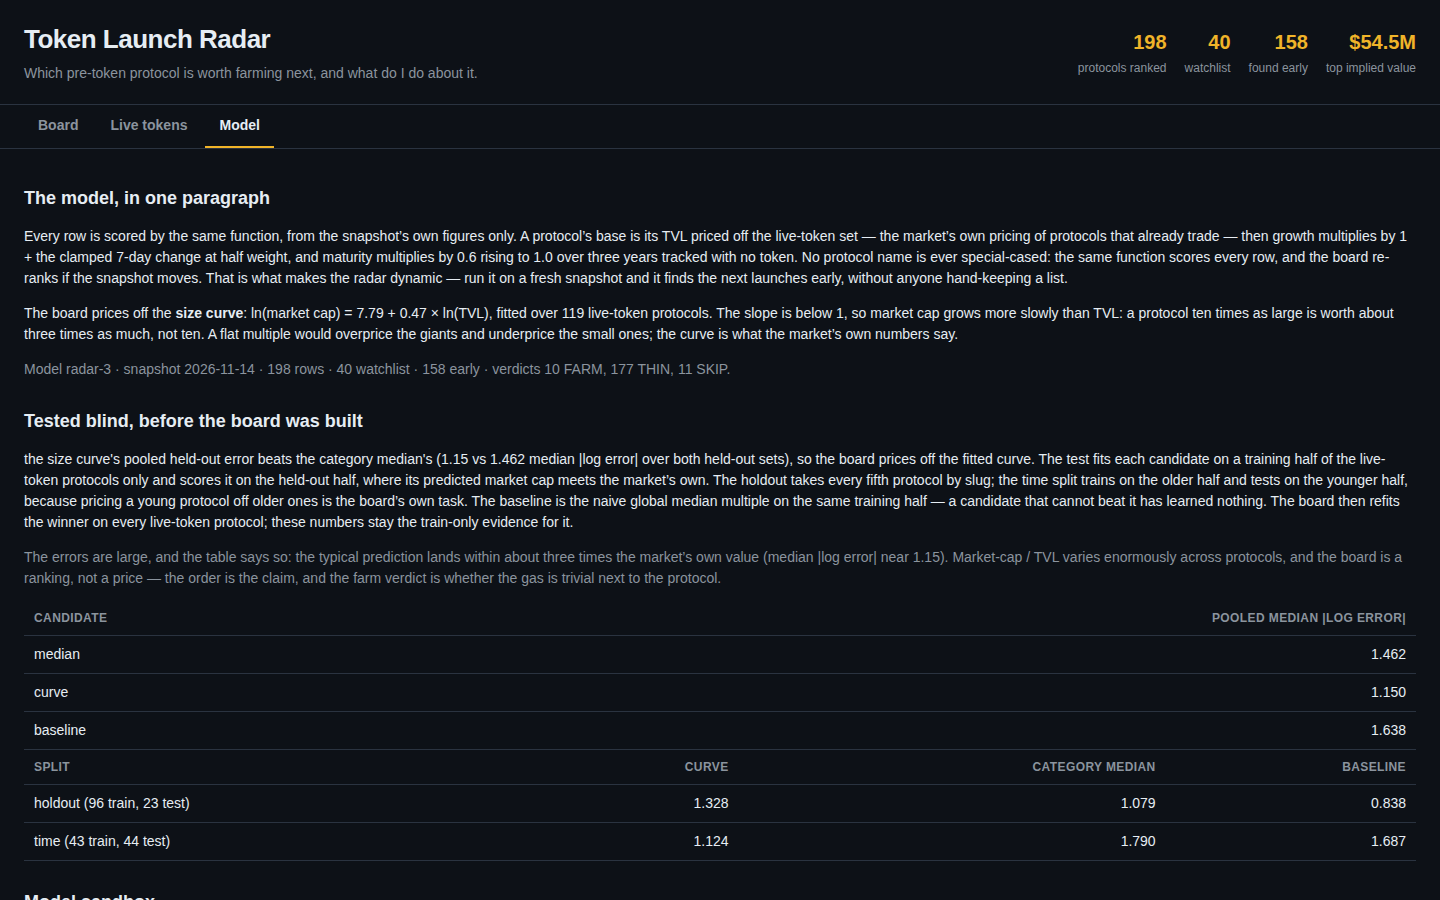
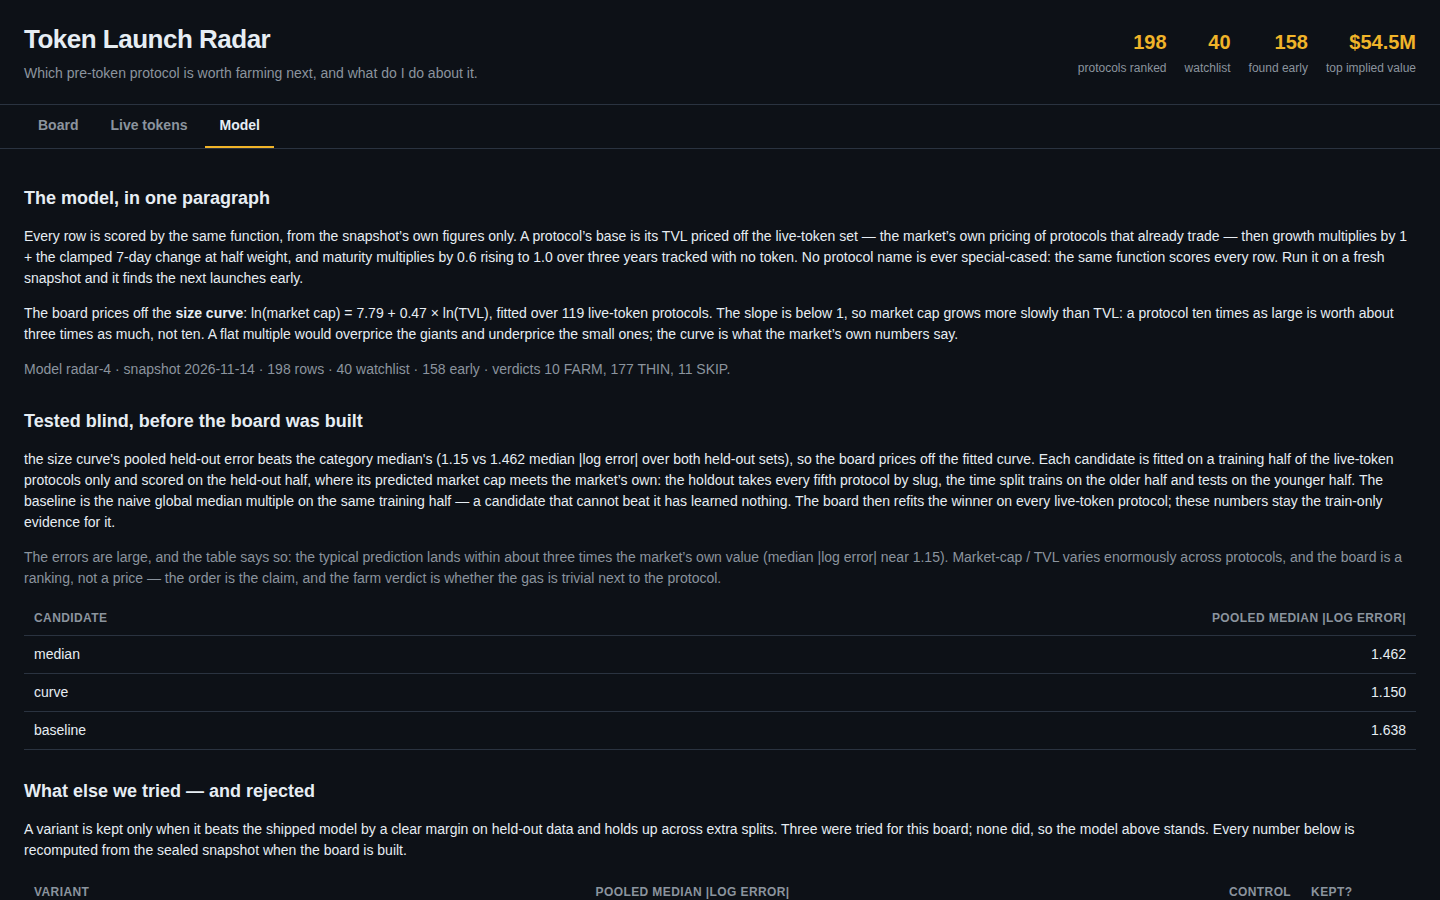
radar-4: model survives three blind variant tests; variants table + gas multiple in farm plans

diff --git a/lib/model.ts b/lib/model.ts
@@ -88,7 +88,7 @@ export const MODEL: ModelConstants = {
 };
 
 /** The model's version label: the dashboard names it and the rules quote it. */
-export const MODEL_VERSION = 'radar-3';
+export const MODEL_VERSION = 'radar-4';
 
 /** How many live-token protocols the Live token view carries, by market cap. */
 export const LIVE_ROWS = 24;
@@ -393,12 +393,23 @@ export interface SplitResult {
   candidates: SplitCandidate[];
 }
 
+/** One model variant the board tested and kept or rejected, with its held-out evidence. */
+export interface VariantResult {
+  name: string;
+  pooled: number;
+  control_pooled: number;
+  control: string;
+  kept: boolean;
+  note: string;
+}
+
 /** The validation report: the splits, the candidates' held-out errors, and the predictor the board uses. */
 export interface ValidationReport {
   predictor: 'median' | 'curve';
   reason: string;
   pooled: { name: 'median' | 'curve' | 'baseline'; med_abs_log_err: number }[];
   splits: SplitResult[];
+  variants: VariantResult[];
 }
 
 /**
@@ -491,7 +502,157 @@ export function validateModel(snapshot: Snapshot, model: ModelConstants = MODEL)
     predictor === 'curve'
       ? `the size curve's pooled held-out error beats the category median's (${pooledErr('curve')} vs ${pooledErr('median')} median |log error| over both held-out sets), so the board prices off the fitted curve`
       : `the category median's pooled held-out error beats the size curve's (${pooledErr('median')} vs ${pooledErr('curve')} median |log error| over both held-out sets), so the board prices off the category medians`;
-  return { predictor, reason, pooled, splits };
+  return { predictor, reason, pooled, splits, variants: validateVariants(snapshot) };
+}
+
+/** One blind split: who trains, who is tested. */
+interface BlindSplit {
+  name: string;
+  train: SnapshotProtocol[];
+  test: SnapshotProtocol[];
+}
+
+/** The two splits the shipped validation uses, plus five more that only the variant tests see. */
+function blindSplits(snapshot: Snapshot): { shipped: BlindSplit[]; extra: BlindSplit[] } {
+  const live = liveSet(snapshot);
+  const sorted = [...live].sort((a, b) => (a.slug < b.slug ? -1 : a.slug > b.slug ? 1 : 0));
+  const dated = live.filter((p) => p.listed_at !== null).sort((a, b) => (a.listed_at! < b.listed_at! ? -1 : a.listed_at! > b.listed_at! ? 1 : 0));
+  const mid = Math.floor(dated.length / 2);
+  const shipped: BlindSplit[] = [
+    { name: 'holdout', train: sorted.filter((_, i) => i % 5 !== 4), test: sorted.filter((_, i) => i % 5 === 4) },
+    { name: 'time', train: dated.slice(0, mid), test: dated.slice(mid) },
+  ];
+  const extra: BlindSplit[] = [
+    ...[0, 1, 2, 3].map((off) => ({
+      name: `holdout-${off}`,
+      train: sorted.filter((_, i) => i % 5 !== off),
+      test: sorted.filter((_, i) => i % 5 === off),
+    })),
+    { name: 'time-reversed', train: dated.slice(mid), test: dated.slice(0, mid) },
+  ];
+  return { shipped, extra };
+}
+
+/** The pooled median |log error| of a base-function factory over splits, under a model. */
+function pooledBaseError(
+  snapshot: Snapshot,
+  splits: BlindSplit[],
+  fitBase: (train: SnapshotProtocol[]) => (p: SnapshotProtocol) => number,
+  model: ModelConstants = MODEL,
+): number {
+  const errs: number[] = [];
+  for (const s of splits) {
+    const base = fitBase(s.train);
+    for (const p of s.test) {
+      const v = impliedFromBase(p, snapshot.as_of, model, base(p));
+      errs.push(Math.abs(Math.log(v / p.mcap_usd!)));
+    }
+  }
+  return round3(median(errs, NaN));
+}
+
+/** The plain size curve's base function, fitted on a training set. */
+function curveBase(train: SnapshotProtocol[]): (p: SnapshotProtocol) => number {
+  const fit = fitCurveFit(train.map((p) => ({ tvl: p.tvl_usd, mcap: p.mcap_usd! })));
+  if (fit === null) throw new SnapshotError('too few live-token protocols to fit a size curve');
+  return (p: SnapshotProtocol) => Math.exp(fit.a) * Math.pow(p.tvl_usd, fit.b);
+}
+
+/** The size curve plus a shrunk per-category residual: each category's median train residual, pulled toward zero by n/(n+5), so a thin category cannot move the curve. */
+function shrunkCategoryBase(train: SnapshotProtocol[]): (p: SnapshotProtocol) => number {
+  const fit = fitCurveFit(train.map((p) => ({ tvl: p.tvl_usd, mcap: p.mcap_usd! })));
+  if (fit === null) throw new SnapshotError('too few live-token protocols to fit a size curve');
+  const resid = new Map<string, number[]>();
+  for (const p of train) {
+    const r = Math.log(p.mcap_usd!) - (fit.a + fit.b * Math.log(p.tvl_usd));
+    const key = p.category ?? 'Unknown';
+    resid.set(key, [...(resid.get(key) ?? []), r]);
+  }
+  const adj = new Map<string, number>();
+  for (const [key, rs] of resid) adj.set(key, (rs.length / (rs.length + 5)) * median(rs, 0));
+  return (p: SnapshotProtocol) => {
+    const base = Math.exp(fit.a) * Math.pow(p.tvl_usd, fit.b);
+    return base * Math.exp(adj.get(p.category ?? 'Unknown') ?? 0);
+  };
+}
+
+/** The clamped 7-day TVL change as a regressor, in the same units the growth multiplier uses. */
+function changeRegressor(p: SnapshotProtocol): number {
+  const raw = typeof p.change_7d === 'number' && Number.isFinite(p.change_7d) ? p.change_7d : 0;
+  return Math.min(120, Math.max(-60, raw)) / 100;
+}
+
+/** The size curve with the 7-day change as a second regressor: ln(mcap) = a + b x ln(TVL) + c x change, by least squares. */
+function curveChangeBase(train: SnapshotProtocol[]): (p: SnapshotProtocol) => number {
+  const x = train.map((p) => [1, Math.log(p.tvl_usd), changeRegressor(p)]);
+  const y = train.map((p) => Math.log(p.mcap_usd!));
+  const xtx = [0, 1, 2].map((i) => [0, 1, 2].map((j) => x.reduce((s, r) => s + r[i]! * r[j]!, 0)));
+  const xty = [0, 1, 2].map((i) => x.reduce((s, r, k) => s + r[i]! * y[k]!, 0));
+  const m = xtx.map((row, i) => [...row, xty[i]!]);
+  for (let col = 0; col < 3; col++) {
+    let piv = col;
+    for (let r = col + 1; r < 3; r++) if (Math.abs(m[r]![col]) > Math.abs(m[piv]![col])) piv = r;
+    [m[col], m[piv]] = [m[piv]!, m[col]!];
+    for (let r = col + 1; r < 3; r++) {
+      const f = m[r]![col] / m[col]![col]!;
+      for (let c = col; c < 4; c++) m[r]![c] -= f * m[col]![c]!;
+    }
+  }
+  const beta = [0, 0, 0];
+  for (let r = 2; r >= 0; r--) {
+    let s = m[r]![3]!;
+    for (let c = r + 1; c < 3; c++) s -= m[r]![c]! * beta[c]!;
+    beta[r] = s / m[r]![r]!;
+  }
+  const [a, b, c] = beta;
+  return (p: SnapshotProtocol) => Math.exp(a!) * Math.pow(p.tvl_usd, b!) * Math.exp(c! * changeRegressor(p));
+}
+
+/**
+ * The variants the board tested against the shipped size curve and rejected, each on the same
+ * blind protocol as the shipped validation: train-only fits, scored on held-out halves. A variant
+ * is kept only when it beats the shipped model by a clear margin on held-out data and holds up
+ * across the extra splits; none of the three did, so the radar-3 model stands and the board is
+ * unchanged by the test — the evidence for keeping it is the table, not an assertion.
+ */
+export function validateVariants(snapshot: Snapshot): VariantResult[] {
+  const { shipped, extra } = blindSplits(snapshot);
+  const all = [...shipped, ...extra];
+  const curveShipped = pooledBaseError(snapshot, shipped, curveBase);
+  const curveAll = pooledBaseError(snapshot, all, curveBase);
+
+  const shrunk = pooledBaseError(snapshot, shipped, shrunkCategoryBase);
+  const changeShipped = pooledBaseError(snapshot, shipped, curveChangeBase);
+  const changeExtra = pooledBaseError(snapshot, extra, curveChangeBase);
+  const curveExtra = pooledBaseError(snapshot, extra, curveBase);
+  const gwFull = pooledBaseError(snapshot, all, curveBase, { ...MODEL, growth_weight: 1.0 });
+
+  return [
+    {
+      name: 'size curve + shrunk category residual',
+      pooled: shrunk,
+      control_pooled: curveShipped,
+      control: 'plain size curve, same splits',
+      kept: false,
+      note: `category residuals do not generalise even shrunk toward zero (shrinkage n/(n+5)): pooled ${shrunk} vs the plain curve's ${curveShipped} on the two shipped splits.`,
+    },
+    {
+      name: 'size curve + 7-day TVL change',
+      pooled: changeShipped,
+      control_pooled: curveShipped,
+      control: 'plain size curve, same splits',
+      kept: false,
+      note: `it looks better on the two shipped splits (${changeShipped} vs ${curveShipped}) but the fitted change coefficient flips sign between training halves (-2.55, +6.27) and the variant loses on three of five extra splits (extra pooled ${changeExtra} vs the curve's ${curveExtra}) — an unstable feature, not a real one.`,
+    },
+    {
+      name: 'growth weight 1.00 (full 7-day change)',
+      pooled: gwFull,
+      control_pooled: curveAll,
+      control: 'growth weight 0.50, same seven splits',
+      kept: false,
+      note: `seven-split pooled ${gwFull} vs ${curveAll} for the shipped weight: a 0.015 gap over 134 held-out points, and it loses on two splits — inside the noise, so the shipped 0.50 stands.`,
+    },
+  ];
 }
 
 /** The growth and maturity multipliers and the implied value of a base, shared by every predictor. */
@@ -729,20 +890,22 @@ export function farmEconomics(p: SnapshotProtocol, age: number | null, implied: 
 }
 
 /**
- * A protocol's farm plan: seven steps, the first the verdict with the plan's net cost, then six
- * concrete actions each with a cost and a time. The plan is derived from the protocol's own
- * record (category, chains, TVL, age, implied value), never from a hand-written list of names.
- * Nothing here promises a token: the protocol records no token, and the plan farms the protocol
- * as it is, so the position is worth holding even if no launch ever comes.
+ * A protocol's farm plan: seven steps, the first the verdict with the plan's net cost and the
+ * implied value's multiple over the gas, then six concrete actions each with a cost and a time.
+ * The plan is derived from the protocol's own record (category, chains, TVL, age, implied value),
+ * never from a hand-written list of names. Nothing here promises a token: the protocol records
+ * no token, and the plan farms the protocol as it is, so the position is worth holding even if
+ * no launch ever comes.
  */
 export function farmSteps(p: SnapshotProtocol, age: number | null, implied: number, econ: FarmEconomics): FarmStep[] {
   const chain = chainOf(p);
   const capital = econ.capitalUsd;
   const hold = econ.holdDays;
   const action = actionFor(p, capital, chain);
+  const gasMultiple = Math.round(implied / econ.gasUsd).toLocaleString('en-US');
   return [
     {
-      text: `Verdict: ${econ.verdict} — this protocol's implied value is ${fmtUsdShort(implied)} against about $${econ.gasUsd} of gas over ${hold} days on $${capital} of capital.`,
+      text: `Verdict: ${econ.verdict} — this protocol's implied value is ${fmtUsdShort(implied)} against about $${econ.gasUsd} of gas over ${hold} days on $${capital} of capital, about ${gasMultiple} times the gas.`,
       cost: `about $${econ.gasUsd} of gas in all`,
       time: `${hold} days`,
     },

diff --git a/dashboard/app.js b/dashboard/app.js
@@ -176,28 +176,38 @@ function renderModel() {
     'protocol’s base is its TVL priced off the live-token set — the market’s own pricing of ' +
     'protocols that already trade — then growth multiplies by 1 + the clamped 7-day change at ' +
     'half weight, and maturity multiplies by 0.6 rising to 1.0 over three years tracked with no ' +
-    'token. No protocol name is ever special-cased: the same function scores every row, and the ' +
-    'board re-ranks if the snapshot moves. That is what makes the radar dynamic — run it on a ' +
-    'fresh snapshot and it finds the next launches early, without anyone hand-keeping a list.</p>' +
+    'token. No protocol name is ever special-cased: the same function scores every row. Run it ' +
+    'on a fresh snapshot and it finds the next launches early.</p>' +
     curveLine +
     '<p class="hint">Model ' + esc(R.model_version) + ' · snapshot ' + esc(R.as_of) + ' · ' +
     R.board_size + ' rows · ' + R.watchlist_size + ' watchlist · ' + R.early_size + ' early · ' +
     'verdicts ' + R.verdict_counts.FARM + ' FARM, ' + R.verdict_counts.THIN + ' THIN, ' +
     R.verdict_counts.SKIP + ' SKIP.</p>' +
     '<h2>Tested blind, before the board was built</h2>' +
-    '<p>' + esc(V.reason) + '. The test fits each candidate on a training half of the ' +
-    'live-token protocols only and scores it on the held-out half, where its predicted market cap ' +
-    'meets the market’s own. The holdout takes every fifth protocol by slug; the time split trains ' +
-    'on the older half and tests on the younger half, because pricing a young protocol off older ' +
-    'ones is the board’s own task. The baseline is the naive global median multiple on the same ' +
-    'training half — a candidate that cannot beat it has learned nothing. The board then refits ' +
-    'the winner on every live-token protocol; these numbers stay the train-only evidence for it.</p>' +
+    '<p>' + esc(V.reason) + '. Each candidate is fitted on a training half of the ' +
+    'live-token protocols only and scored on the held-out half, where its predicted market cap ' +
+    'meets the market’s own: the holdout takes every fifth protocol by slug, the time split ' +
+    'trains on the older half and tests on the younger half. The baseline is the naive global ' +
+    'median multiple on the same training half — a candidate that cannot beat it has learned ' +
+    'nothing. The board then refits the winner on every live-token protocol; these numbers stay ' +
+    'the train-only evidence for it.</p>' +
     '<p class="hint">The errors are large, and the table says so: the typical prediction lands ' +
     'within about three times the market’s own value (median |log error| near 1.15). Market-cap / ' +
     'TVL varies enormously across protocols, and the board is a ranking, not a price — the order ' +
     'is the claim, and the farm verdict is whether the gas is trivial next to the protocol.</p>' +
     '<table><thead><tr><th>Candidate</th><th class="num">Pooled median |log error|</th></tr></thead><tbody>' +
     V.pooled.map(pooledRow).join('') + '</tbody></table>' +
+    '<h2>What else we tried — and rejected</h2>' +
+    '<p>A variant is kept only when it beats the shipped model by a clear margin on held-out ' +
+    'data and holds up across extra splits. Three were tried for this board; none did, so the ' +
+    'model above stands. Every number below is recomputed from the sealed snapshot when the ' +
+    'board is built.</p>' +
+    '<table><thead><tr><th>Variant</th><th class="num">Pooled median |log error|</th><th class="num">Control</th><th>Kept?</th></tr></thead><tbody>' +
+    (V.variants || []).map((v) =>
+      '<tr><td>' + esc(v.name) + '</td><td class="num">' + v.pooled.toFixed(3) + '</td>' +
+      '<td class="num">' + v.control_pooled.toFixed(3) + ' (' + esc(v.control) + ')</td>' +
+      '<td>' + (v.kept ? 'kept' : 'rejected') + '</td></tr>').join('') + '</tbody></table>' +
+    (V.variants || []).map((v) => '<p class="hint"><strong>' + esc(v.name) + ':</strong> ' + esc(v.note) + '</p>').join('') +
     '<table><thead><tr><th>Split</th><th class="num">Curve</th><th class="num">Category median</th><th class="num">Baseline</th></tr></thead><tbody>' +
     splitRows + '</tbody></table>';
   $('compRows').innerHTML = R.comparables.map((c) =>

diff --git a/README.md b/README.md
@@ -18,7 +18,9 @@ Node 22 or newer, standard library only, no network. The program reads the seale
 
 Implied value is TVL priced off the live-token set, times a growth factor times a maturity factor. Two candidates price the base: the category medians (the median market-cap-to-TVL ratio of live-token protocols in the same category) and a size curve (a log-log fit of market cap on TVL over all 119 live-token protocols). Both are fitted on a training half of the live set and tested blind on the held-out half — a random holdout and a time split that trains on the older half and tests on the younger — against a naive global-median baseline. On this snapshot the curve wins on the pooled held-out error (1.150 vs 1.462 median |log error|), so the board prices off the curve: ln(market cap) = 7.79 + 0.47 × ln(TVL). The slope is below 1, so market cap grows more slowly than TVL and a flat multiple would overprice the giants. Growth is the protocol's 7-day TVL change, clamped, at half weight. Maturity rewards protocols that have run longer with no token. Wrapped, bridged, staked and exchange-branded products are excluded from ranking, as are live-token protocols, which are shown separately at their market values. The validation is reported honestly on the dashboard, errors included: the typical prediction lands within about three times the market's own value, so the board is a ranking, not a price.
 
-Each ranked protocol carries a farm plan: seven concrete steps with what to do, what it costs and how long it takes, derived from the protocol's category, chains and size. The first step is the verdict — FARM when the protocol's implied value is at least a million times the gas the plan spends, THIN at a hundred thousand times, SKIP below — so the plan is netted, not just listed.
+Model radar-4 re-tested that choice three ways and kept it. A size curve plus a shrunk per-category residual (pooled 1.178 vs the plain curve's 1.150) does not generalise even shrunk. A size curve with the 7-day TVL change as a second regressor looks better on the two shipped splits (1.039 vs 1.150) but its fitted change coefficient flips sign between training halves (−2.55, +6.27) and it loses on three of five extra splits (extra pooled 1.191 vs the curve's 1.200), so it is an unstable feature, not a real one. Raising the growth weight from 0.50 to 1.00 moves the seven-split pooled error from 1.181 to 1.166 — inside the noise of 134 held-out points, and it loses on two splits. The dashboard's Model tab shows all three tests with their numbers, recomputed from the sealed snapshot when the board is built, so the model the board keeps is the one that survived being challenged.
+
+Each ranked protocol carries a farm plan: seven concrete steps with what to do, what it costs and how long it takes, derived from the protocol's category, chains and size. The first step is the verdict — FARM when the protocol's implied value is at least a million times the gas the plan spends, THIN at a hundred thousand times, SKIP below — and it states that multiple in plain numbers (the top row's implied value is about 2.4 million times its gas), so the plan is netted, not just listed.
 
 ## Dashboard
 
